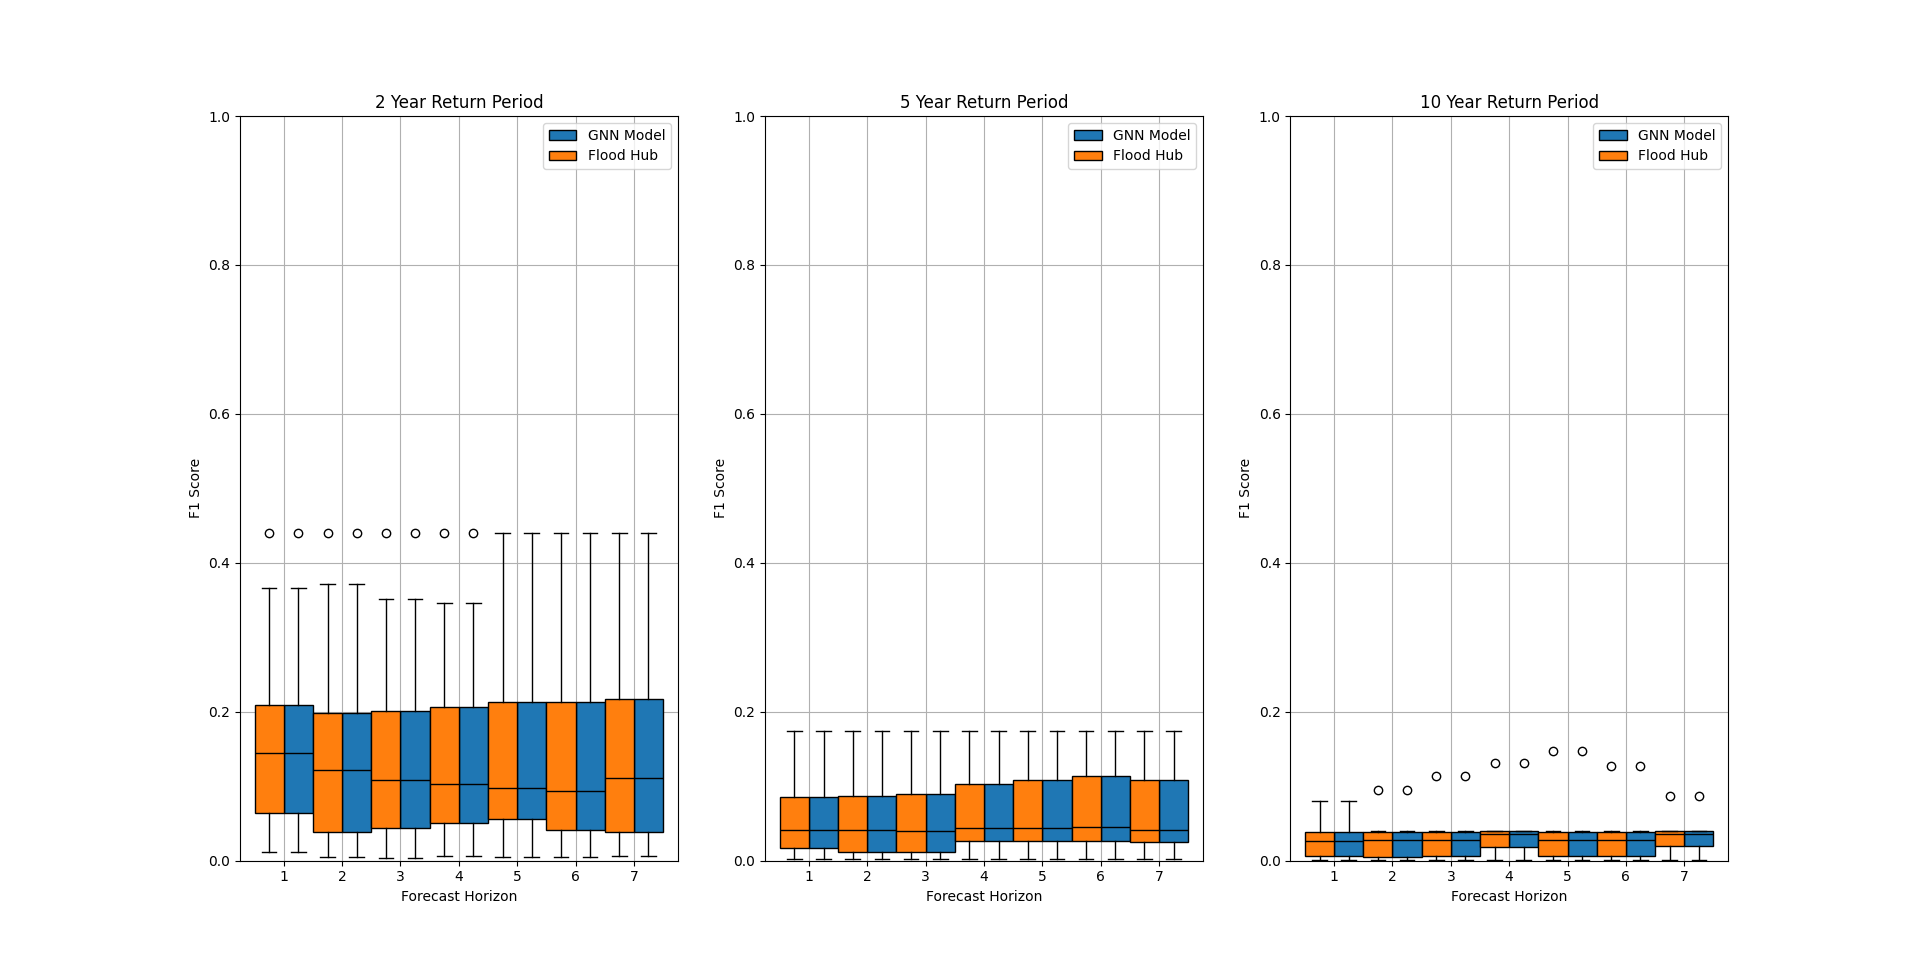
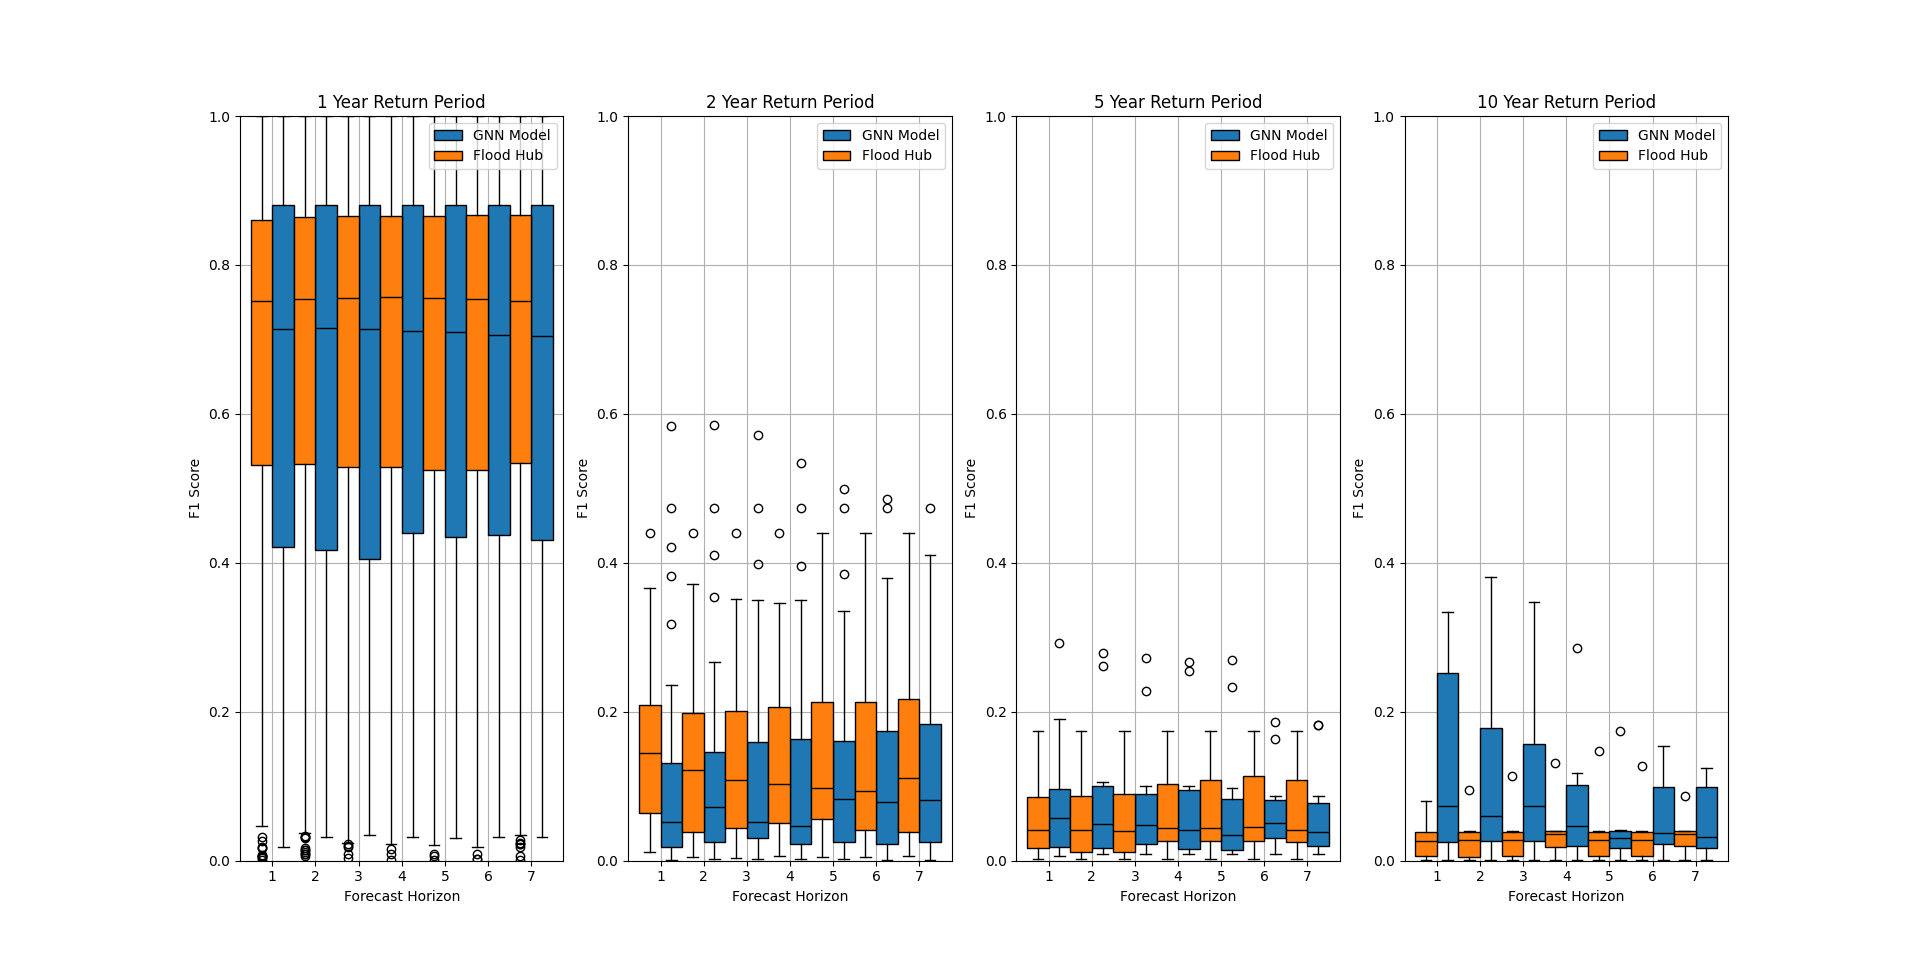
Fixed dictionary shallow copy (why does .copy() not make a copy) in F1 score calculation. Real results posted.

diff --git a/compare.py b/compare.py
@@ -1,4 +1,5 @@
 from utils import *
+import copy
 
 
 def plotMetrics(floodHubMetrics, modelMetrics, config):
@@ -7,7 +8,7 @@ def plotMetrics(floodHubMetrics, modelMetrics, config):
         "precision": np.zeros([len(modelMetrics), config.future, 4]),
         "f1": np.zeros([len(modelMetrics), config.future, 4])
     }
-    flood = model.copy()
+    flood = copy.deepcopy(model)
 
     nodeX = np.zeros([len(modelMetrics), 4])
 
@@ -44,8 +45,8 @@ def plotMetrics(floodHubMetrics, modelMetrics, config):
 
     labels = ["1 Year Return Period", "2 Year Return Period", "5 Year Return Period", "10 Year Return Period"]
 
-    for i in range(1, 4):
-        plt.subplot(1, 3, i)
+    for i in range(4):
+        plt.subplot(1, 4, i + 1)
         plt.title(labels[i])
         modelF1 = model["f1"][:, :, i].T
         modelF1 = [box[~np.isnan(box)] for box in modelF1]
